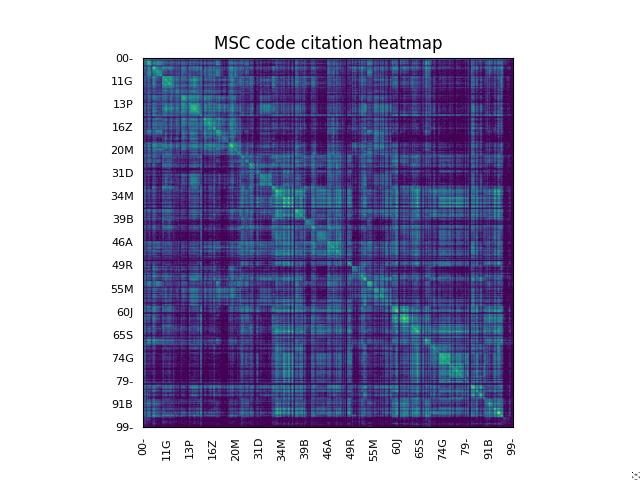
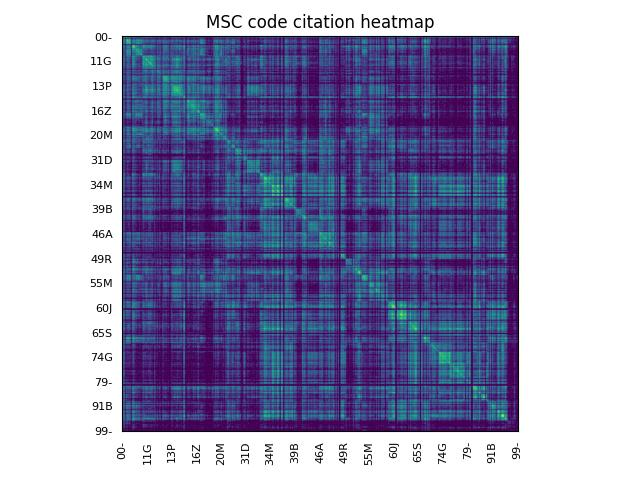
Constructed initial embedding

diff --git a/content/blog/a-map-of-mathematics.md b/content/blog/a-map-of-mathematics.md
@@ -382,12 +382,14 @@ We can visualize this adjacency matrix using a heatmap:
 
 ```python
 import matplotlib.pyplot as plt
+plt.figure()
 plt.imshow(np.log1p(M))
 labels = [code if i % 40 == 0 else '' for i, code in enumerate(msc3)]
 plt.tick_params(left=False, bottom=False)
 plt.xticks(range(len(labels)), labels, rotation=90, fontsize=8)
 plt.yticks(range(len(labels)), labels, rotation=0, fontsize=8)
 plt.title('MSC code citation heatmap')
+plt.tight_layout()
 plt.savefig('a-map-of-mathematics/heatmap.jpg');
 ```
 
@@ -405,6 +407,43 @@ which starts to kicks off around the differential equations codes, consists of
 more analytic codes. We can also see a sizable interaction between these two
 rough groupings when we get to the geometric tags, which is not surprising.
 Amusingly, this heatmap looks a bit like the zbMATH Open [logo](https://zbmath.org/static/zbMATH@2x.gif).
+
+Our graph \\(G=G\_3\\) is an abstract mathematical object consisting of a couple
+hundred vertices and a lot of weighted edges. There is no canonical way in which
+\\(G\\) lives inside of \\(\R^2\\) or \\(\R^3\\), which is where we're used to seeing maps.
+To get a graph embedding \\(\iota:G\hookrightarrow\R^2\\) like the one in the Math Stack Exchange
+example above, we'll want to choose an embedding that respects the weights
+\\(f(n\_{ij})\\) on the edges of \\(G\\): the heavier the weight, the closer the \\(\iota(v\_i)\\)
+and \\(\iota(v\_j)\\) should be.
+
+
+### <span class="org-todo todo TODO">TODO</span> is the graph connected? {#is-the-graph-connected}
+
+
+## spectral embedding {#spectral-embedding}
+
+```python
+from sklearn.manifold import spectral_embedding
+emb_2d = spectral_embedding(M, n_components=2, random_state=42)
+df_emb2d = pd.DataFrame(emb_2d, columns=['x', 'y'])
+df_emb2d['msc'] = pd.Series(msc3)
+msc2 = np.unique(pd.Series(msc3).str[0:2])
+idx_msc2 = {code: i for i, code in enumerate(msc2)}
+df_emb2d['msc2'] = df_emb2d['msc'].str[0:2]
+df_emb2d['msc2_num'] = df_emb2d['msc2'].map(idx_msc2)
+plt.figure(figsize=(30, 30))
+plt.scatter(x=df_emb2d['x'], y=df_emb2d['y'], c=df_emb2d['msc2_num'], s=1000, alpha=0.7)
+offset = 1.5 * 10**(-6)
+for i, code in enumerate(df_emb2d['msc'].values):
+    plt.annotate(code, (df_emb2d['x'].iloc[i] - offset, df_emb2d['y'].iloc[i] - 0.5 * offset))
+plt.tick_params(bottom=False, left=False, labelleft=False, labelbottom=False)
+tick_list = range(0, len(msc2), 3)
+plt.title('Spectral embedding of MSC 3-character codes')
+plt.tight_layout()
+plt.savefig('a-map-of-mathematics/spectral-2d-map.jpg');
+```
+
+{{< figure src="/ox-hugo/spectral-2d-map.jpg" >}}
 
 
 ## visualizing the graph {#visualizing-the-graph}
@@ -437,6 +476,13 @@ Amusingly, this heatmap looks a bit like the zbMATH Open [logo](https://zbmath.o
 -   check whether eilenberg-maclane spaces paper appear in the dataset
 -   convert some of these links to references, appropriately
 -   consider vectorizing the slow construction of M
+-   comment the code
+-   double check that these codes are valid, e.g. what is 60M?
+-   plot where my knowledge/comfort is (a linear combination of vectors)
+-   size of plot points indicate size of corpus (log scale?)
+-   plot distribution of corpus sizes... maybe drop really small categories?
+-   see how the plot looks for msc2 (refactor code into functions)
+-   think about interactivity: <https://observablehq.com/@d3/zoomable-scatterplot>
 
 <hr>
 
